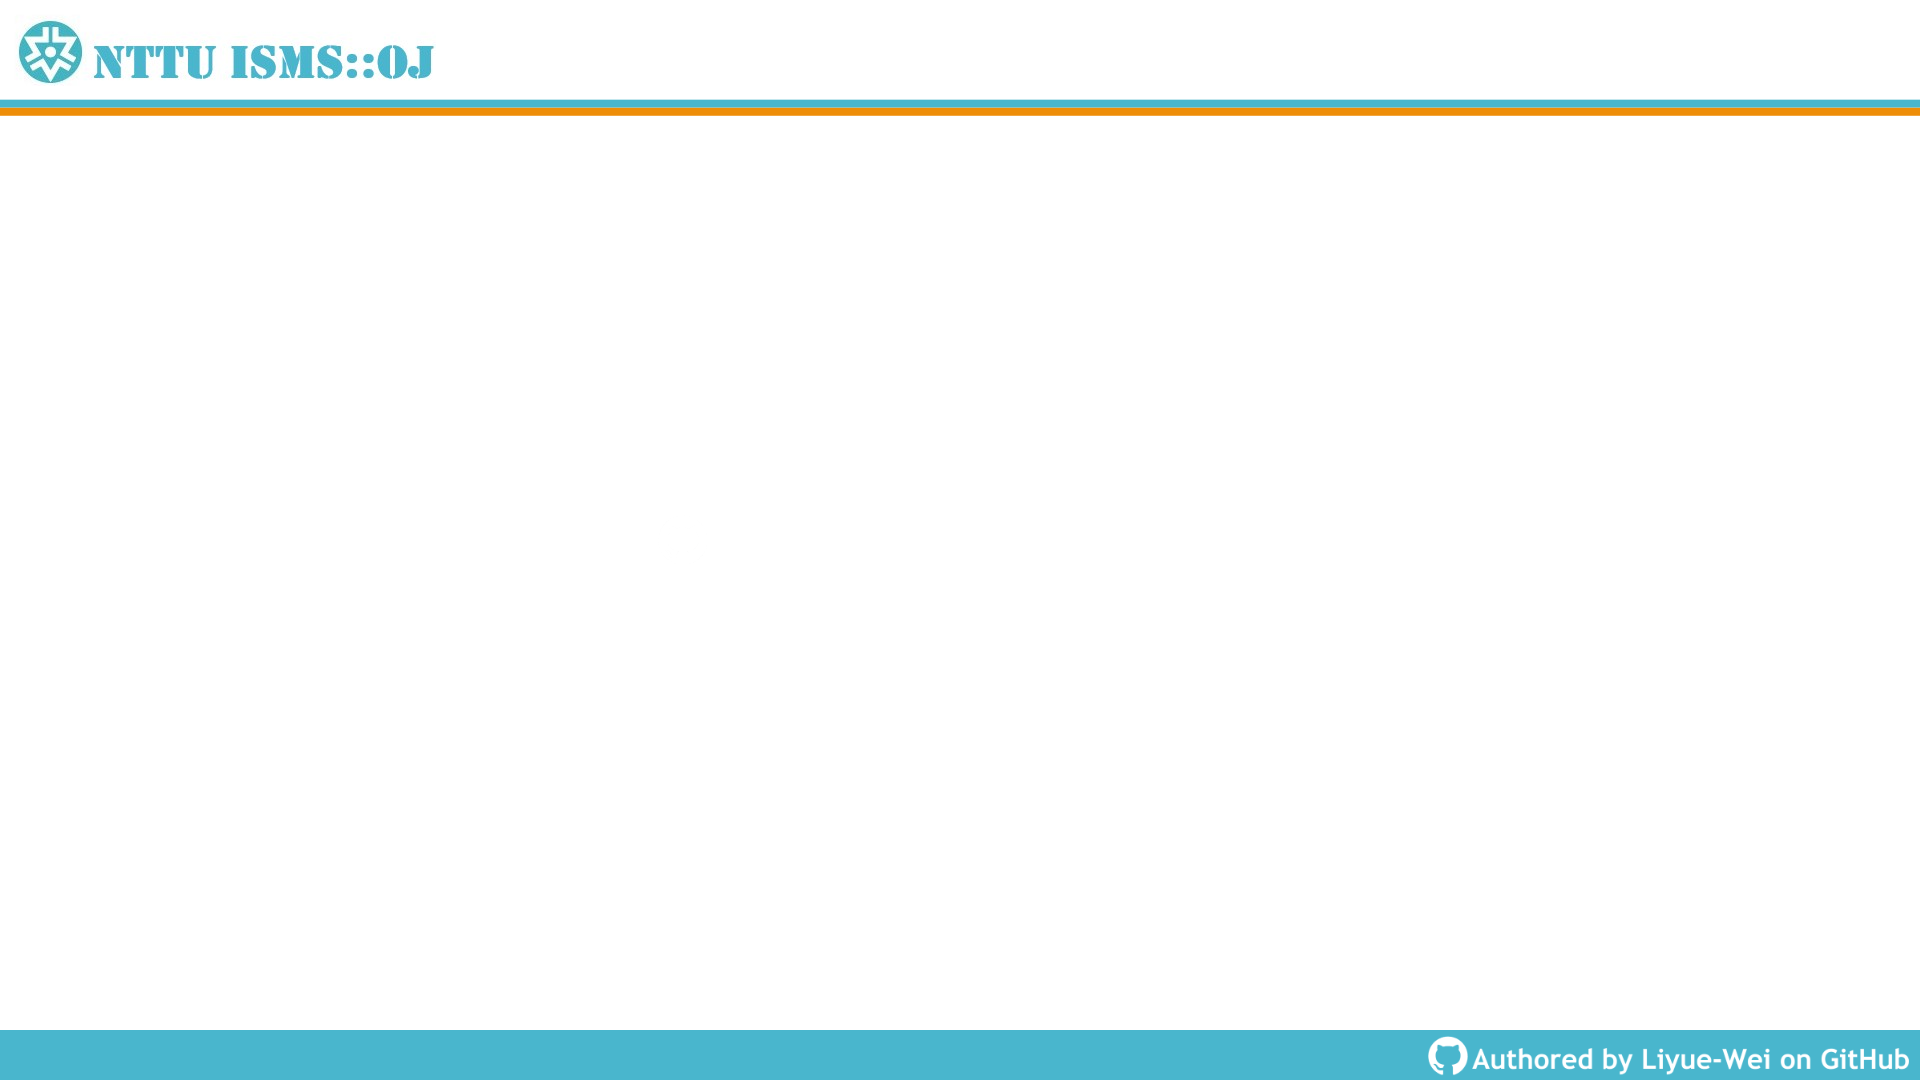
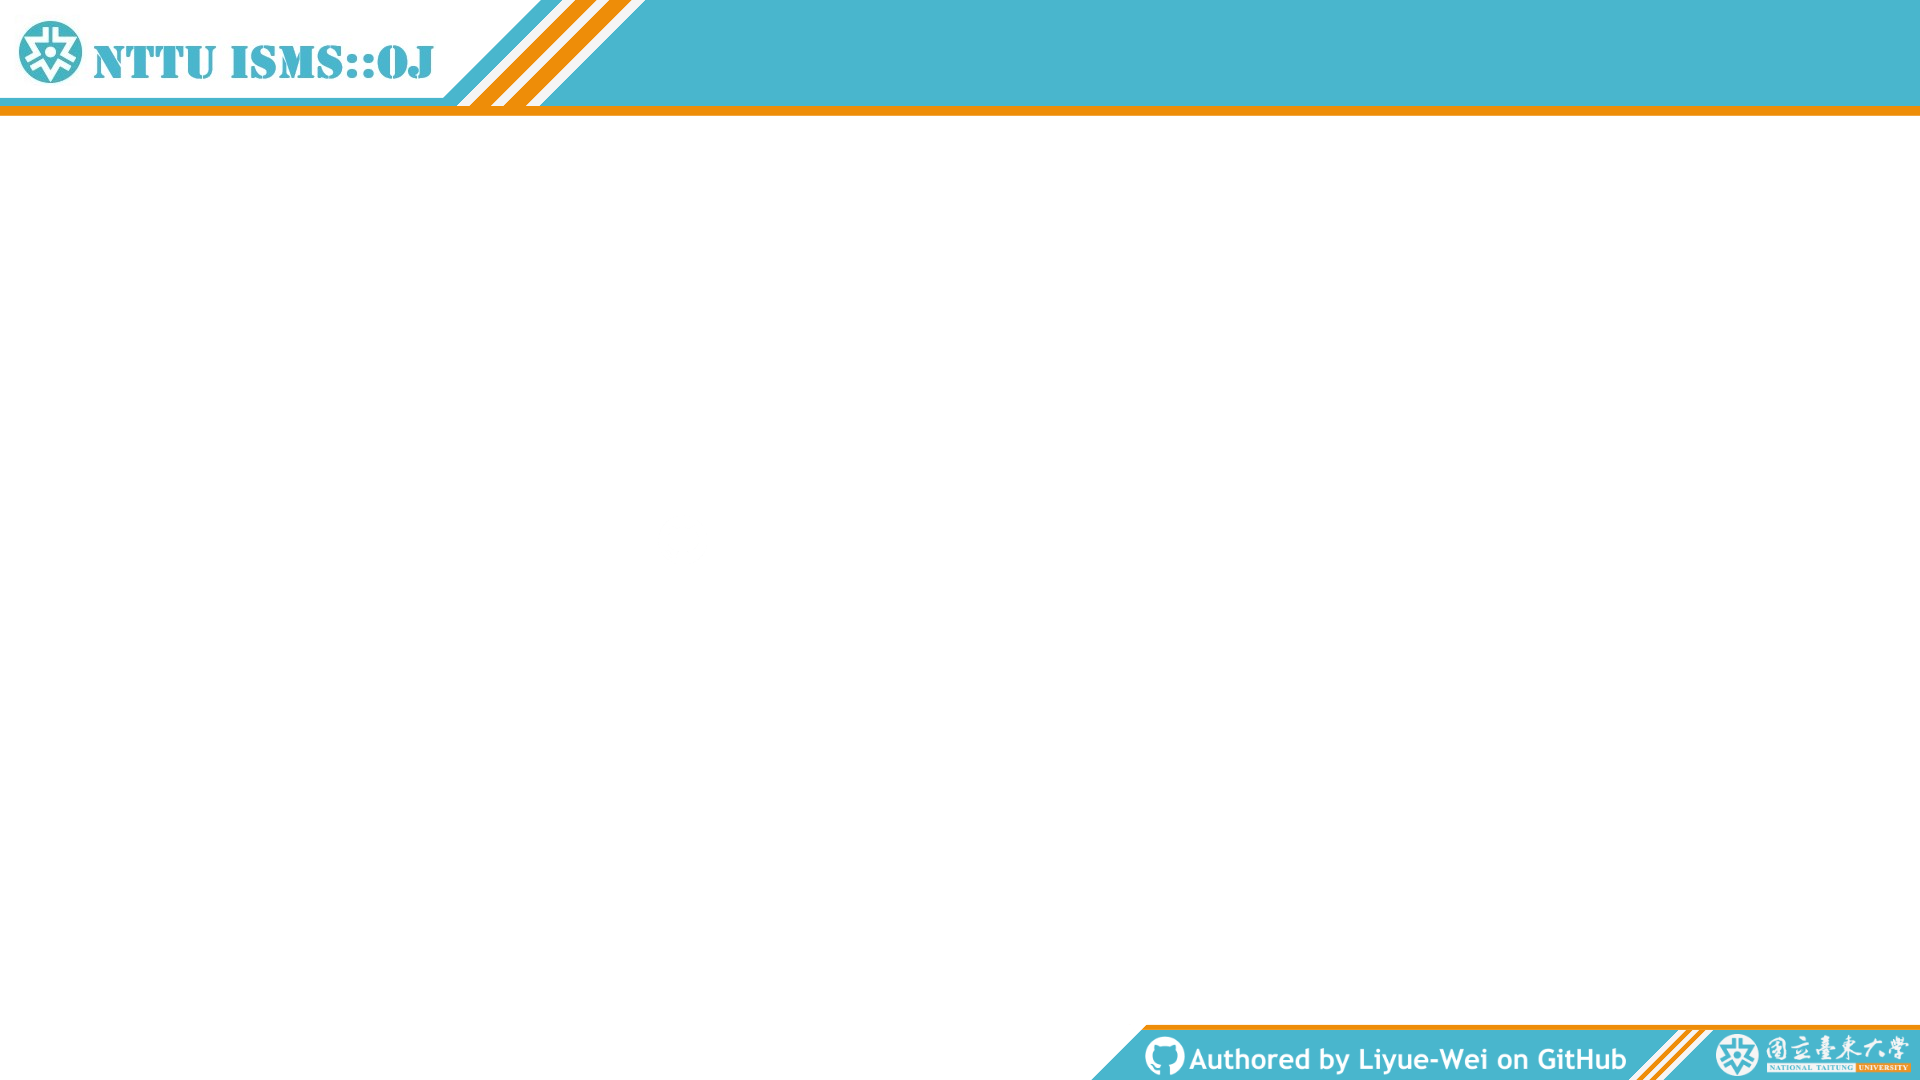
更新UI設計

Changed region(s): [[0.2188, 0.0, 1.0, 0.1222], [0.0, 0.9472, 1.0, 1.0]]

diff --git a/NTTU_ISMS_OJ/NTTU_ISMS_OJ.py b/NTTU_ISMS_OJ/NTTU_ISMS_OJ.py
@@ -228,23 +228,27 @@ class GUI_interface:
     pic = ImageTk.PhotoImage(pic_bg)
 
     tk.Label(win, image=pic).place(x=0, y=0)
-    ttk.Button(win, text=" Exit ", style="Outline.TButton", command=win_close).place(x=1845, y=15)
-    ttk.Button(win, text=" Maximize ", style="Outline.TButton", command=win_maximize).place(x=1715, y=15)
-    ttk.Button(win, text=" Minimize ", style="Outline.TButton", command=win_minimize).place(x=1585, y=15)
-    tk.Label(win, textvariable=time_now, font=("微軟正黑體", 16)).place(x=1640, y=65)
+    # ttk.Button(win, text=" Exit ", style="Outline.TButton", command=win_close).place(x=1845, y=15)
+    # ttk.Button(win, text=" Maximize ", style="Outline.TButton", command=win_maximize).place(x=1715, y=15)
+    # ttk.Button(win, text=" Minimize ", style="Outline.TButton", command=win_minimize).place(x=1585, y=15)
+    # tk.Label(win, textvariable=time_now, font=("微軟正黑體", 16)).place(x=1640, y=65)
+    ttk.Button(win, text=" Exit ", style="Outline.TButton", command=win_close).place(x=10, y=980, width=306, height=40)
+    ttk.Button(win, text=" Maximize ", style="Outline.TButton", command=win_maximize).place(x=327, y=980, width=306, height=40)
+    ttk.Button(win, text=" Minimize ", style="Outline.TButton", command=win_minimize).place(x=643, y=980, width=306, height=40)
+    tk.Label(win, textvariable=time_now, font=("微軟正黑體", 18)).place(x=10, y=150)
     ttk.Label(win, text=("Version " + ver), font=("微軟正黑體", 10)).place(x=1835, y=120)
 
-    ttk.Button(win, text=" Question Database ", style="Outline.TButton").place(x=10, y=145, width=200, height=45)
-    ttk.Button(win, text=" Commit History ", style="Outline.TButton", command=Commit_History).place(x=220, y=145, width=200, height=45)
+    ttk.Button(win, text=" Question Database ", style="Outline.TButton").place(x=335, y=145, width=200, height=45)
+    ttk.Button(win, text=" Commit History ", style="Outline.TButton", command=Commit_History).place(x=545, y=145, width=200, height=45)
     # ttk.Button(win, textvariable=user, style="Outline.TButton", command=user_data).place(x=430, y=145, width=200, height=45)
-    ttk.Entry(win, font=("微軟正黑體", 14), textvariable=username).place(x=430, y=145, width=520, height=45)
+    ttk.Entry(win, font=("微軟正黑體", 14), textvariable=username).place(x=755, y=145, width=195, height=45)
 
     question = tk.Text(win, font=("微軟正黑體", 16))
-    question.place(x=10, y=205, width=940, height=815)
+    question.place(x=10, y=200, width=940, height=765)
     pic_demo_path = fd.path_function("Extension_modules/DEMO.png")
     pic_demo = Image.open(pic_demo_path)
     pic_2 = ImageTk.PhotoImage(pic_demo)
-    tk.Label(win, image=pic_2).place(x=15, y=210)
+    tk.Label(win, image=pic_2).place(x=15, y=205)
 
     code_input = tk.Text(win, font=("微軟正黑體", 14))
     # scrollbar.config(command=code_input.yview)
